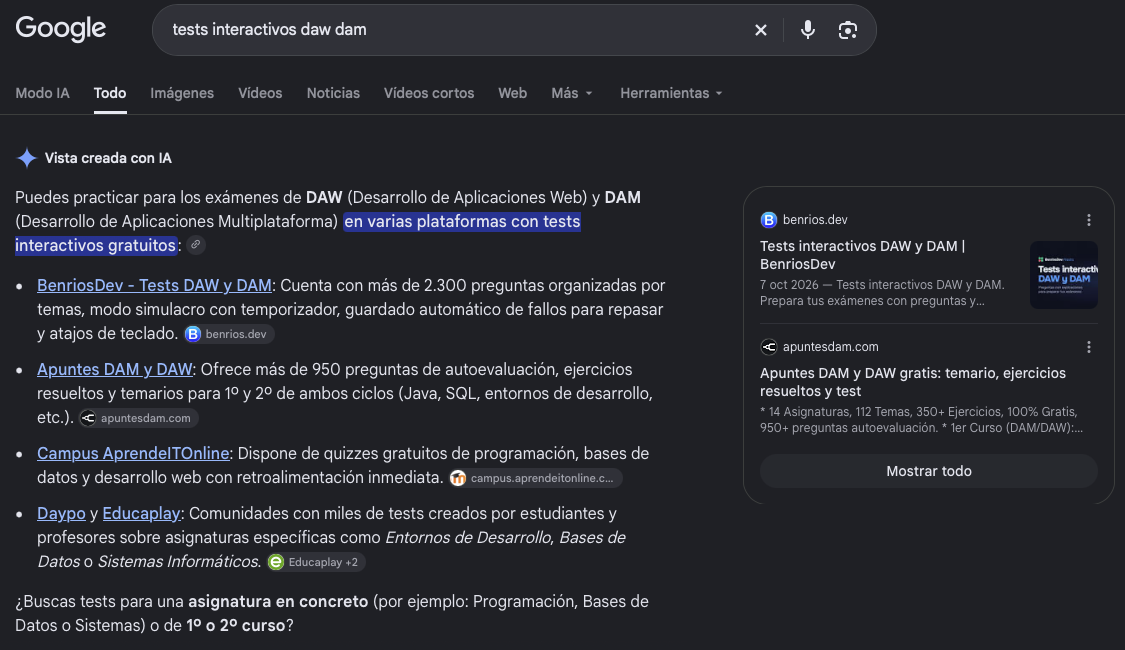
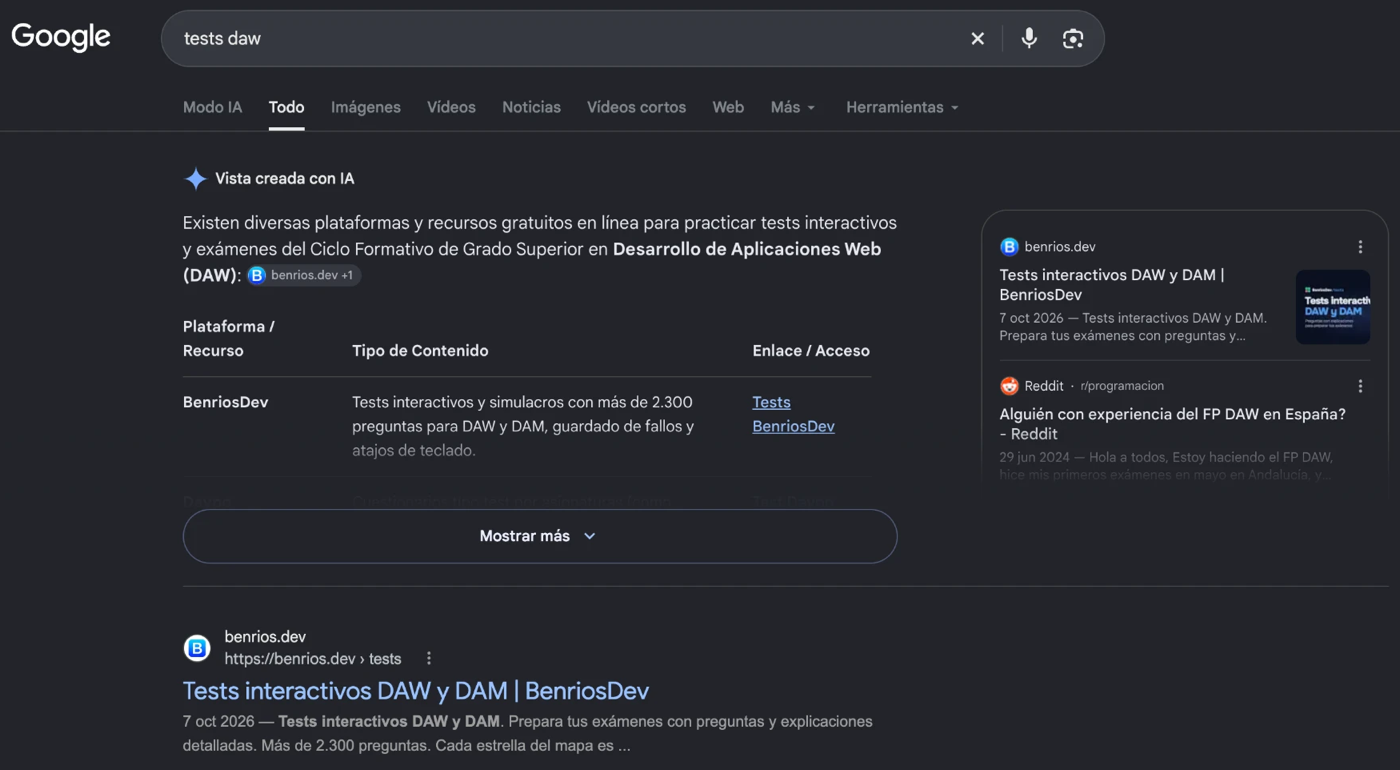
Cambia la captura de Google por la búsqueda «tests daw»

diff --git a/docs/retos.md b/docs/retos.md
@@ -95,9 +95,9 @@ No salió solo: la accesibilidad en móvil empezó en 94 y llegó a 100 corrigie
 - **Sitemap propio, sin dependencias**, con la fecha de modificación sacada del último commit de cada página.
 - **Metadatos completos.** Canonical en cada página, Open Graph con una imagen propia de 1200×630, miga de pan con datos estructurados `BreadcrumbList`, un solo `h1` por página y descripciones de tema generadas de menos de 160 caracteres.
 - **Sin páginas pobres.** No se crea una página por pregunta, para no llenar el índice de contenido escaso. Los enunciados de cada tema están en su página.
-- **Resultado.** Al buscar «tests interactivos daw dam», Google muestra la web la primera, tanto en la vista creada con IA como en los resultados (octubre de 2026).
+- **Resultado.** Al buscar solo «tests daw», Google pone la web la primera en la vista creada con IA, en el panel de fuentes y en los resultados (octubre de 2026).
 
-![Búsqueda «tests interactivos daw dam» en Google, con benrios.dev en primer lugar en la vista creada con IA y en los resultados](capturas/google.png)
+![Búsqueda «tests daw» en Google, con benrios.dev en primer lugar en la vista creada con IA, en el panel de fuentes y en los resultados](capturas/google.png)
 
 ## Errores que encontramos
 

diff --git a/README.md b/README.md
@@ -76,9 +76,9 @@ Todos los retos, con fragmentos de código, y los errores que encontramos por el
 
 **100 en las cuatro categorías de Lighthouse, en móvil y en escritorio.**
 
-El SEO y el rendimiento se trabajaron con mucho cuidado, página a página, para exprimir cada detalle. Funcionó: al buscar «tests interactivos daw dam», Google muestra la web la primera, tanto en la vista creada con IA como en los resultados (octubre de 2026).
+El SEO y el rendimiento se trabajaron con mucho cuidado, página a página, para exprimir cada detalle. Funcionó: al buscar solo «tests daw», Google pone la web la primera en la vista creada con IA, en el panel de fuentes y en los resultados (octubre de 2026).
 
-![Búsqueda «tests interactivos daw dam» en Google, con benrios.dev en primer lugar en la vista creada con IA y en los resultados](docs/capturas/google.png)
+![Búsqueda «tests daw» en Google, con benrios.dev en primer lugar en la vista creada con IA, en el panel de fuentes y en los resultados](docs/capturas/google.png)
 
 Lighthouse en la portada (PageSpeed Insights):
 
